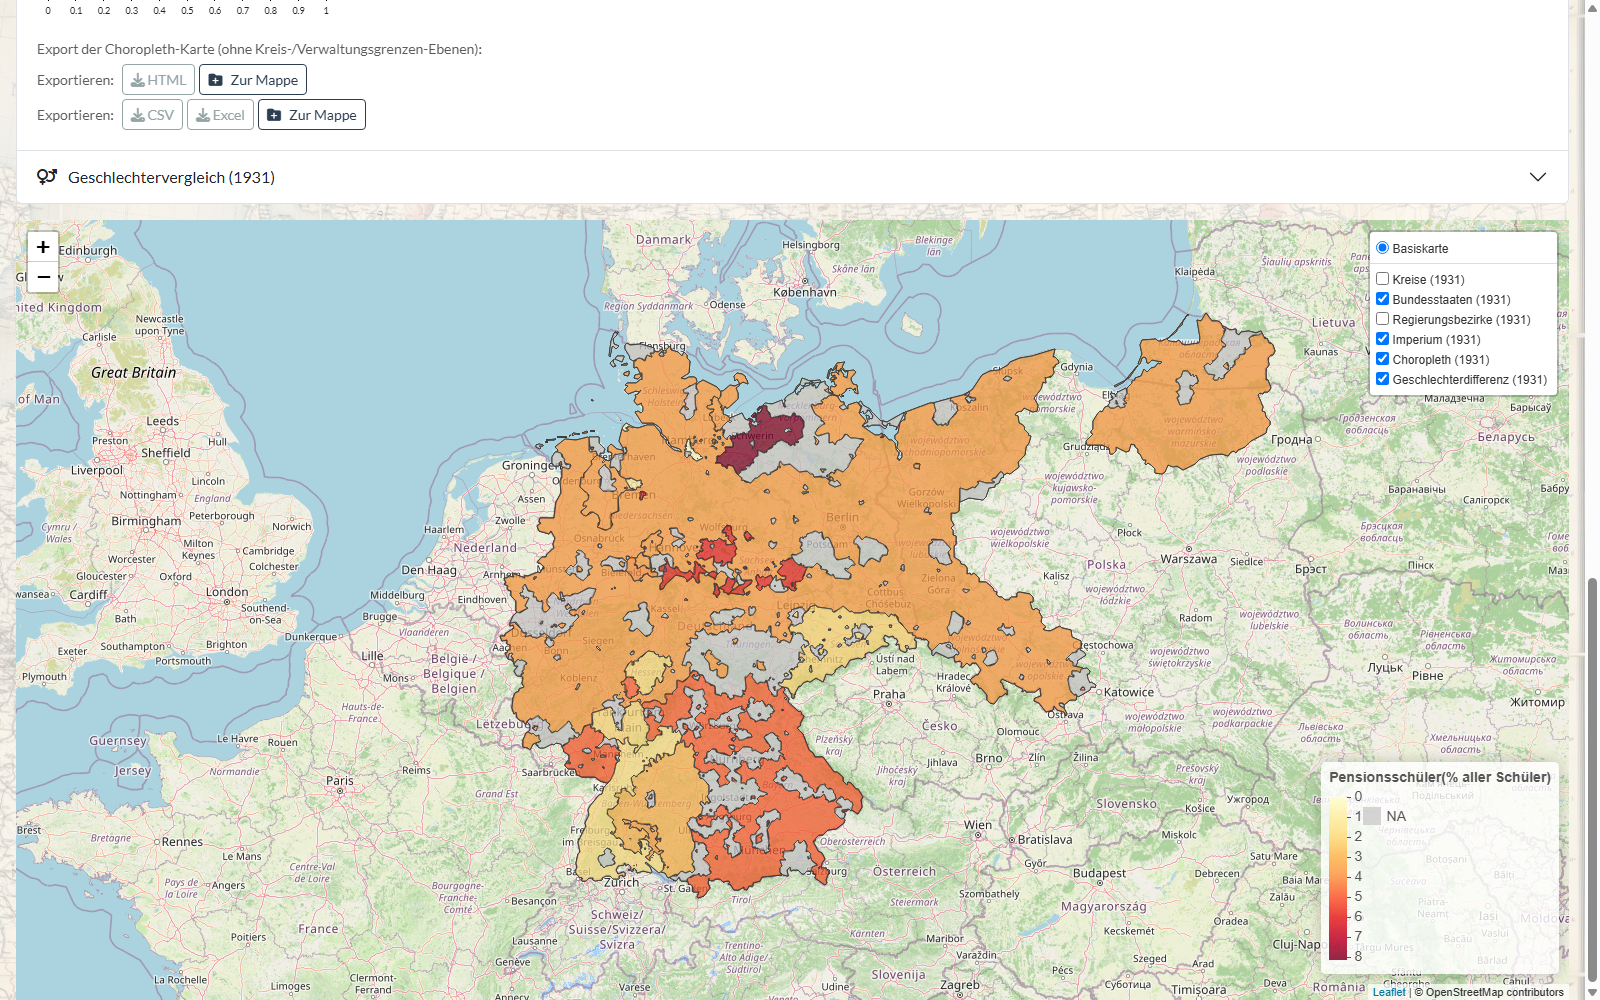
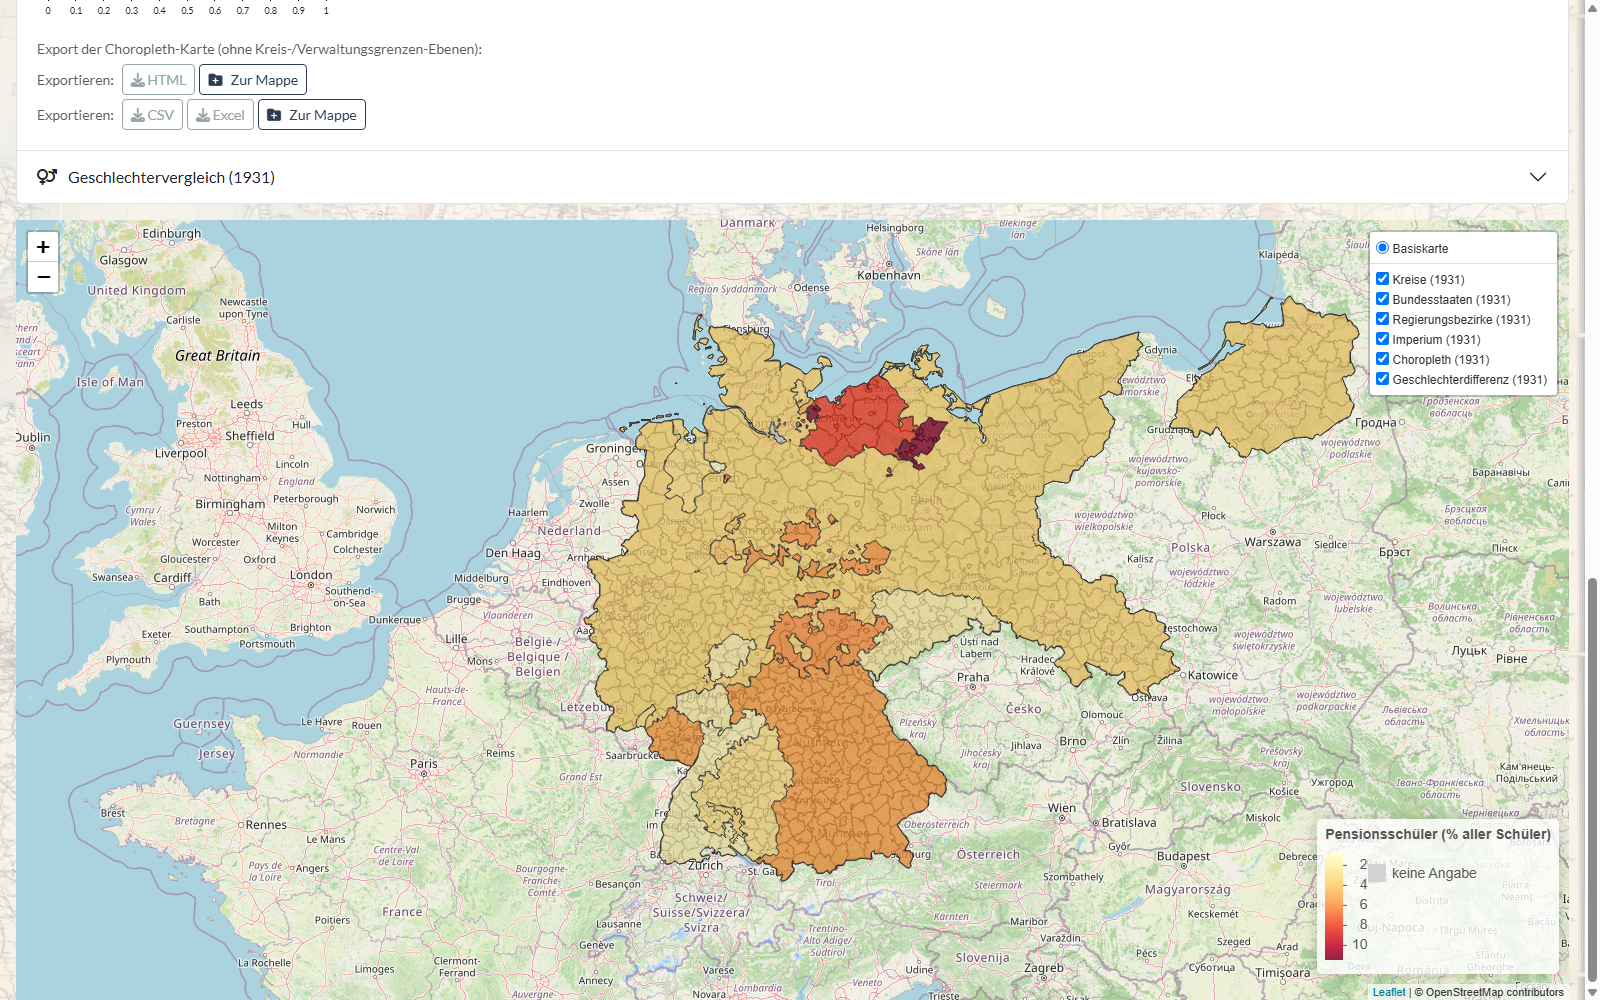
Replace 1931 survey screenshot with corrected map
The map now covers all 17 Länder of the 1931 survey (previously Thüringen
and several other areas were grey) and the legend title is fixed; the
caption is updated accordingly.

diff --git a/README.md b/README.md
@@ -82,7 +82,7 @@ Wurzen, Attendorn, Laubach, Gütersloh und Frankfurt am Main – u. a. zur Unter
 
 ![Reichserhebung 1931: Anteil der Pensionsschüler je Land](docs/09_reichsstatistik_1931.png)
 
-*Reichserhebung 1931: Anteil der auswärtigen Schüler in Familienunterkunft (Pension) an allen Schülern der öffentlichen Knabenanstalten, je Land; grau: keine Angabe.*
+*Reichserhebung 1931: Anteil der auswärtigen Schüler in Familienunterkunft (Pension) an allen Schülern der öffentlichen Knabenanstalten, je Land der Erhebung (Hamburg schlüsselt die Auswärtigen nicht auf: keine Angabe).*
 
 ![Schüleranteile nach Bahnhofsnähe 1915](docs/10_bahnhofsnaehe.png)
 
